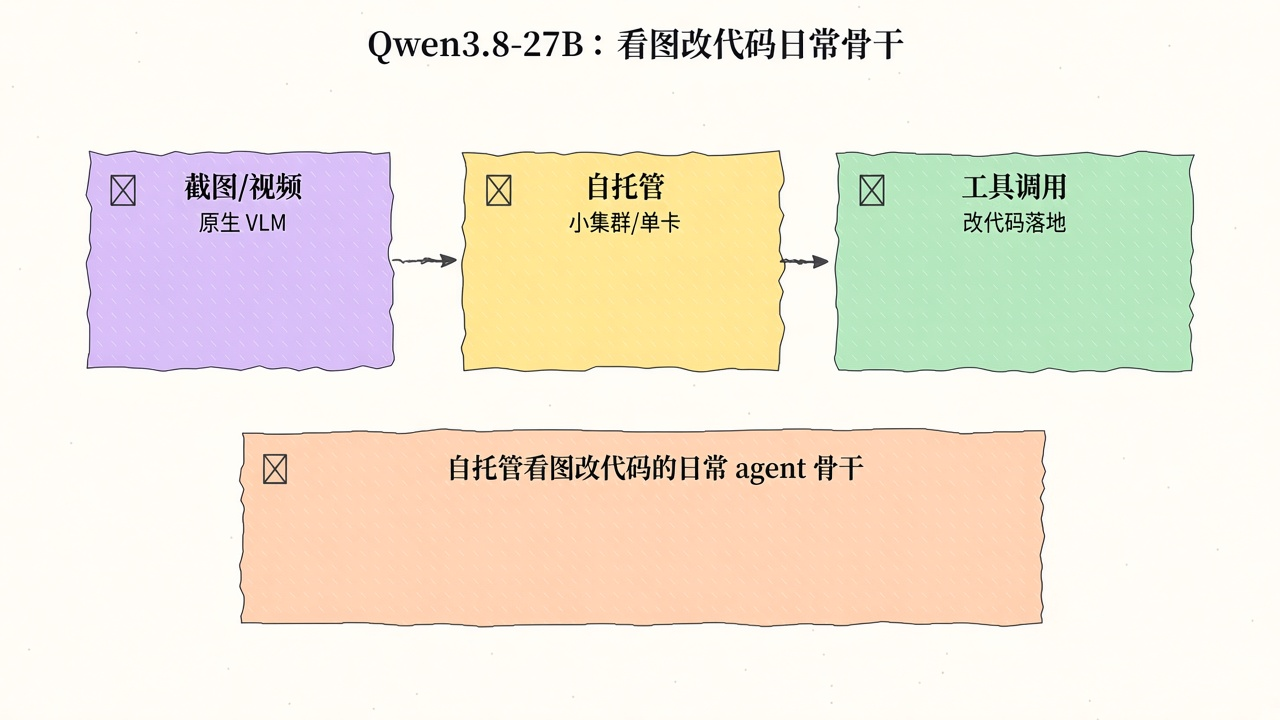
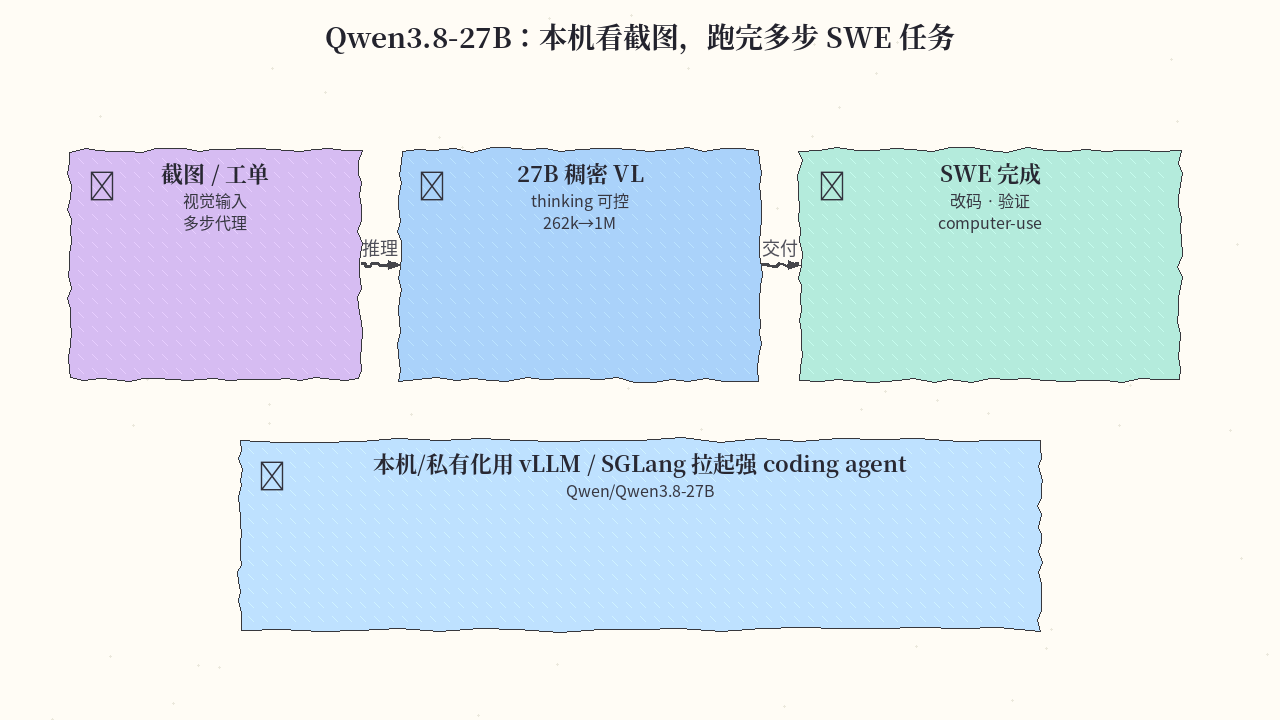
content(huggingface): 2026-11-09 daily

diff --git a/content/huggingface/2026-11-09 daily.md b/content/huggingface/2026-11-09 daily.md
@@ -1,0 +1,126 @@
+---
+bot: huggingface-daily
+title: 2026-11-09 Hugging Face 日报
+date: 2026-11-09
+source: grok-bot
+---
+
+# 2026-11-09 Hugging Face 日报
+
+今日五条：Qwen3.8-27B 主线、Flash 本机 GGUF、价值对齐研究向 Arete、小卡竞赛数学 TwIL、以及 agent-first 视频 remake。
+
+## 1. Qwen/Qwen3.8-27B — 27B 稠密 VL · coding / agent / computer-use
+
+**介绍**  
+Qwen3.8-27B：部署友好的稠密视觉语言模型，强化编码、专业工作与长程 agent 任务；thinking 默认可关，可用 `reasoning_effort` / `preserve_thinking`；原生上下文 262,144，可扩到约 1M。兼容 Transformers / vLLM / SGLang 等。likes 约 19.4k（2026-11-07 更新）。
+
+**用法**  
+模型卡：[huggingface.co/Qwen/Qwen3.8-27B](https://huggingface.co/Qwen/Qwen3.8-27B)。
+
+```bash
+# 以 vLLM / SGLang 等方式拉起（详见模型卡）
+# 示例：按卡内 Serving 指南部署后，把 agent 的视觉/工具回路接到该端点
+hf download Qwen/Qwen3.8-27B --local-dir ./Qwen3.8-27B
+```
+
+**应用场景**  
+本机 agent 看着截图跑完多步 SWE：读报错、改文件、再验证。
+
+![qwen38-27b 应用场景示意](./assets/2026-11-09/qwen38-27b.png)
+
+**推荐学习程度**：进阶
+
+---
+
+## 2. unsloth/Qwen3.8-Flash-Next-GGUF — Flash 本地 GGUF 路径
+
+**介绍**  
+Unsloth 提供的 Qwen3.8 Flash-Next GGUF（含 Dynamic v3.1 量化路径），方便用 llama.cpp / Strata / Unsloth Desktop 在本机跑 Flash。likes 约 1.5k。
+
+**用法**  
+模型卡：[huggingface.co/unsloth/Qwen3.8-Flash-Next-GGUF](https://huggingface.co/unsloth/Qwen3.8-Flash-Next-GGUF)。
+
+```bash
+hf download unsloth/Qwen3.8-Flash-Next-GGUF --local-dir ./Qwen3.8-Flash-Next-GGUF
+# llama.cpp 示例（按实际文件名调整）：
+# llama-server -m ./Qwen3.8-Flash-Next-GGUF/<quant>.gguf --n-gpu-layers all
+```
+
+**应用场景**  
+笔记本上 llama.cpp 起 Flash，断网也能写码、改补丁。
+
+![qwen38-flash-gguf 应用场景示意](./assets/2026-11-09/qwen38-flash-gguf.png)
+
+**推荐学习程度**：入门
+
+---
+
+## 3. NousResearch/Arete-27B — 西方价值 framing 的 Qwen3.8-27B SFT
+
+**介绍**  
+Arete-27B 是对 Qwen3.8-27B 的 SFT：把叙事/拒答框架往西方价值对齐方向推；其 Propaganda_Eval 上宣称宣传率约 22%→0.9%，能力大致保持。偏研究与可选性，不是「通用更强」宣传。likes 约 294。
+
+**用法**  
+模型卡：[huggingface.co/NousResearch/Arete-27B](https://huggingface.co/NousResearch/Arete-27B)。
+
+```bash
+hf download NousResearch/Arete-27B --local-dir ./Arete-27B
+# 与基座 Qwen3.8-27B 用同一套提示做 side-by-side
+```
+
+**应用场景**  
+研究者对同一批 prompt 并排看拒答边界与 framing 差异，再决定是否纳入评测矩阵。
+
+![arete-27b 应用场景示意](./assets/2026-11-09/arete-27b.png)
+
+**推荐学习程度**：深度
+
+---
+
+## 4. webAI-Official/TwIL-8B — 8.8B 竞赛数学 / 代码推理（非商用）
+
+**介绍**  
+TwIL-8B：基于 Granite-4.2-8B 的 8.8B 后训练模型，MATH / LiveCodeBench 等表现强；`balanced`（默认，短痕迹）与 `verbose` 两变体；Q4_K_M GGUF 约 5GB。许可证为 webAI Non-Commercial。likes 约 234（约 16h 内有更新）。
+
+**用法**  
+模型卡：[huggingface.co/webAI-Official/TwIL-8B](https://huggingface.co/webAI-Official/TwIL-8B)。
+
+```bash
+hf download webAI-Official/TwIL-8B --local-dir ./TwIL-8B
+# balanced GGUF：TwIL-8B-Q4_K_M-balanced.gguf
+# from_pretrained("webAI-Official/TwIL-8B") 默认 balanced；verbose 用 subfolder="verbose"
+```
+
+**应用场景**  
+小 GPU 上做竞赛数学辅导：开 balanced，短 thinking 痕迹讲题。
+
+![twil-8b 应用场景示意](./assets/2026-11-09/twil-8b.png)
+
+**推荐学习程度**：进阶
+
+---
+
+## 5. Viggle/Viggle-Remake — Agent-first 视频 remake LoRA + MCP
+
+**介绍**  
+Viggle Remake：在 MiniMax-H3 上的 swap/edit LoRA，按 agent-first 设计——MCP 可切窗、画关键帧、写提示、渲染并拼回原声轨。重 GPU 自托管，或直接用 Viggle App。务必注意肖像/版权同意。likes 约 195。
+
+**用法**  
+模型卡：[huggingface.co/Viggle/Viggle-Remake](https://huggingface.co/Viggle/Viggle-Remake)。App：[viggle.ai](https://viggle.ai/meme/app/home?ui=v2)。
+
+```bash
+pip install -U "huggingface_hub>=1.0"
+hf download MiniMaxAI/MiniMax-H3 --local-dir ./MiniMax-H3
+hf download Viggle/Viggle-Remake --local-dir ./Viggle-Remake   --include "lora/*" --include "inference/*" --include "examples/*"
+pip install -r Viggle-Remake/requirements.txt
+# MCP / worker 见仓库 mcp/；小卡可走 ComfyUI int8/GGUF
+```
+
+**应用场景**  
+Agent 把片子切段、画关键帧、换成另一套天气/演员，并保留原声——前提是素材授权清楚。
+
+![viggle-remake 应用场景示意](./assets/2026-11-09/viggle-remake.png)
+
+**推荐学习程度**：深度
+
+---
